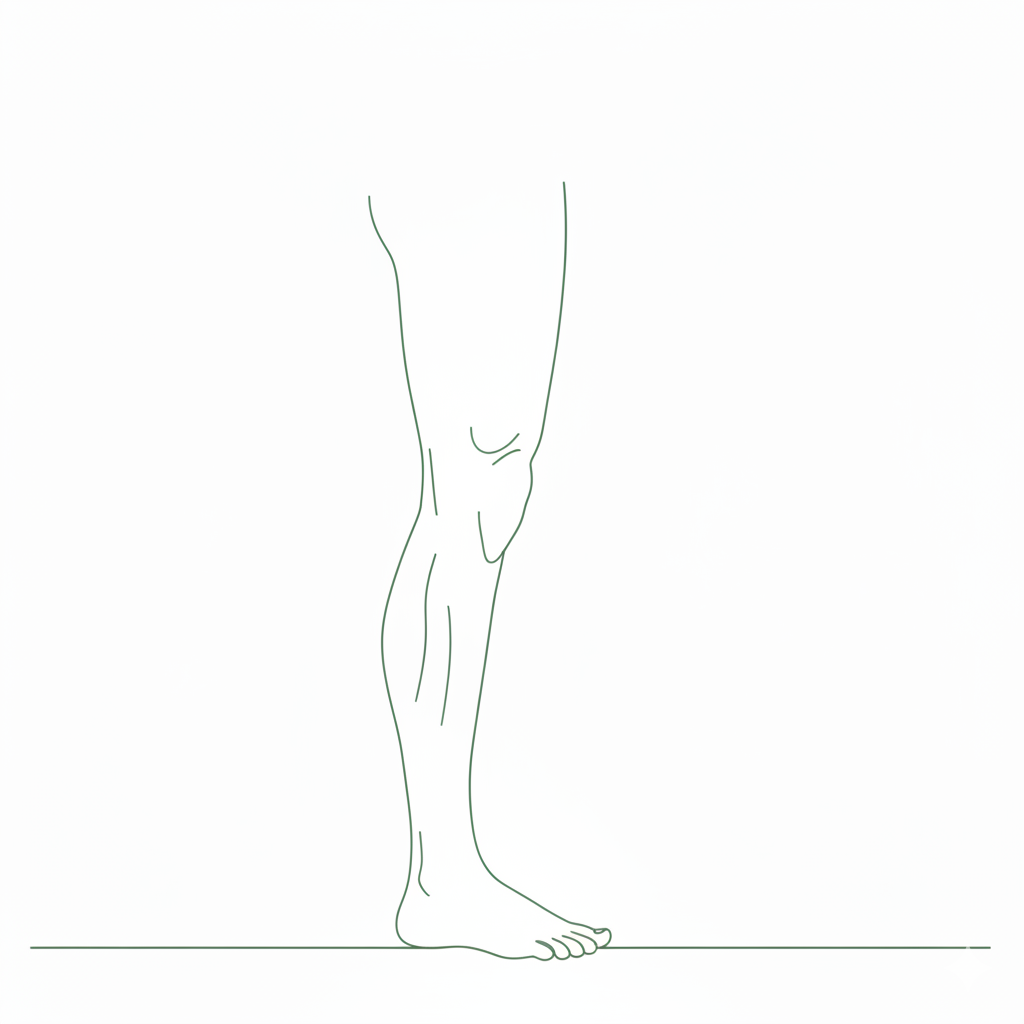
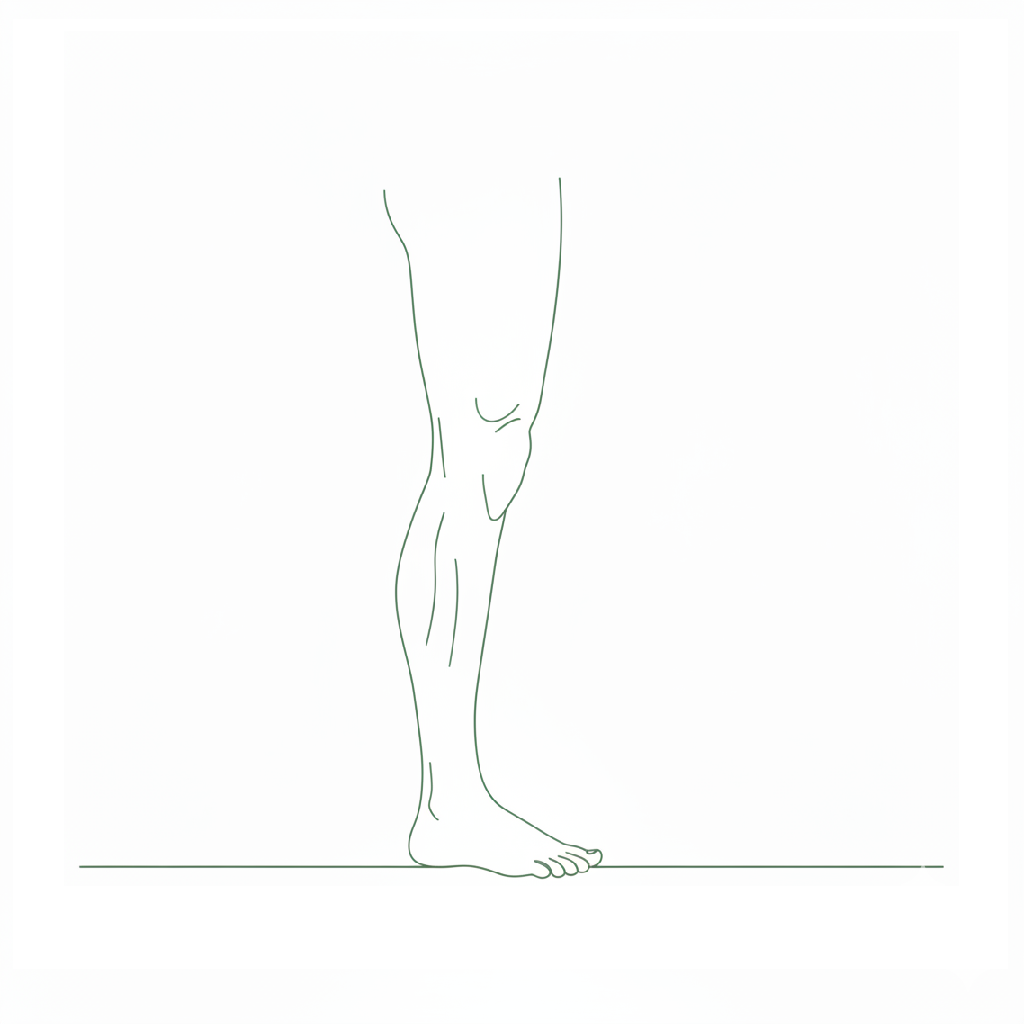
fix: fix url for biblical references

diff --git a/client/src/data.js b/client/src/data.js
@@ -87,7 +87,7 @@ export const ingredientsData = [
         sources: [
             { type: 'science', source: 'Cardiovascular benefits of garlic', url: 'https://www.ncbi.nlm.nih.gov/pmc/articles/PMC139960/' },
             { type: 'history', source: 'Used in Ancient Egypt for strength', url: 'https://www.ncbi.nlm.nih.gov/pmc/articles/PMC3249897/' },
-            { type: 'bible', source: 'Numbers 11:5' }
+            { type: 'bible', source: 'Numbers 11:5', url: 'https://www.bible.com/bible/114/NUM.11.5' }
         ]
     },
     {
@@ -159,7 +159,7 @@ export const ingredientsData = [
         commonUses: ['Burns', 'Skin Irritation', 'Wounds'],
         tags: ['science', 'bible', 'history'],
         sources: [
-            { type: 'bible', source: 'John 19:39' },
+            { type: 'bible', source: 'John 19:39', url: 'https://www.bible.com/bible/114/JHN.19.39' },
             { type: 'science', source: 'Aloe vera in dermatology', url: 'https://www.ncbi.nlm.nih.gov/pmc/articles/PMC2763764/' },
             { type: 'history', source: 'Known as "plant of immortality" in Egypt' }
         ]
@@ -233,7 +233,7 @@ export const ingredientsData = [
         commonUses: ['Sore Throat', 'Wounds', 'Nasal Congestion'],
         tags: ['bible', 'science', 'history'],
         sources: [
-            { type: 'bible', source: 'Matthew 5:13 (Metaphorical)', url: 'https://www.biblegateway.com/passage/?search=Matthew+5%3A13&version=KJV' },
+            { type: 'bible', source: 'Matthew 5:13 (Metaphorical)', url: 'https://www.bible.com/bible/114/MAT.5.13' },
             { type: 'science', source: 'Saline irrigation for rhinosinusitis', url: 'https://pubmed.ncbi.nlm.nih.gov/22769666/' },
             { type: 'history', source: 'Used for food preservation and health globally' }
         ]
@@ -306,7 +306,7 @@ export const ingredientsData = [
         commonUses: ['Diabetes', 'Infections', 'Digestion'],
         tags: ['science', 'bible', 'history'],
         sources: [
-            { type: 'bible', source: 'Exodus 30:23' },
+            { type: 'bible', source: 'Exodus 30:23', url: 'https://www.bible.com/bible/114/EXO.30.23' },
             { type: 'science', source: 'Cinnamon and blood glucose', url: 'https://www.ncbi.nlm.nih.gov/pmc/articles/PMC4466762/' },
             { type: 'history', source: 'Highly prized in ancient trade routes' }
         ]
@@ -355,7 +355,7 @@ export const ingredientsData = [
         commonUses: ['Puffy Eyes', 'Sunburn', 'Hydration'],
         tags: ['science', 'history', 'bible'],
         sources: [
-            { type: 'bible', source: 'Numbers 11:5' },
+            { type: 'bible', source: 'Numbers 11:5', url: 'https://www.bible.com/bible/114/NUM.11.5' },
             { type: 'science', source: 'Phytochemical analysis', url: 'https://pubmed.ncbi.nlm.nih.gov/23098877/' },
             { type: 'history', source: 'Cultivated in India for over 3000 years' }
         ]
@@ -381,7 +381,7 @@ export const ingredientsData = [
         tags: ['quran', 'bible', 'science', 'history'],
         sources: [
             { type: 'quran', source: 'Surah An-Nur 24:35', url: 'https://quran.com/24/35' },
-            { type: 'bible', source: 'Deuteronomy 8:8' },
+            { type: 'bible', source: 'Deuteronomy 8:8', url: 'https://www.bible.com/bible/114/DEU.8.8' },
             { type: 'science', source: 'Olive oil and skin health', url: 'https://pubmed.ncbi.nlm.nih.gov/19167997/' },
             { type: 'history', source: 'Symbol of peace and health since antiquity' }
         ]
@@ -550,7 +550,7 @@ export const ingredientsData = [
         commonUses: ['Cough', 'Colds', 'Infections'],
         tags: ['science', 'bible', 'quran', 'history'],
         sources: [
-            { type: 'bible', source: 'Numbers 11:5' },
+            { type: 'bible', source: 'Numbers 11:5', url: 'https://www.bible.com/bible/114/NUM.11.5' },
             { type: 'quran', source: 'Surah Al-Baqarah 2:61', url: 'https://quran.com/2/61' },
             { type: 'science', source: 'Anti-inflammatory effects of onion', url: 'https://pubmed.ncbi.nlm.nih.gov/19223126/' }
         ]

diff --git a/client/src/pages/BodyPartDetails.jsx b/client/src/pages/BodyPartDetails.jsx
@@ -50,8 +50,8 @@ const BodyPartDetails = () => {
             </Link>
 
             <div className="flex flex-col md:flex-row gap-8 items-start mb-12">
-                <div className="w-full md:w-1/3 aspect-square bg-white rounded-3xl p-8 border border-pastel-mint/30 shadow-sm flex items-center justify-center">
-                    <img src={bodyPart.image} alt={bodyPart.bodyPart[language]} className="w-full h-full object-contain" />
+                <div className="w-full md:w-1/3 aspect-square bg-white rounded-3xl border border-pastel-mint/30 shadow-sm flex items-center justify-center overflow-hidden">
+                    <img src={bodyPart.image} alt={bodyPart.bodyPart[language]} className="w-full h-full object-cover object-center scale-125" />
                 </div>
 
                 <div className="flex-1">

diff --git a/client/src/pages/TopIngredients.jsx b/client/src/pages/TopIngredients.jsx
@@ -96,7 +96,6 @@ const TopIngredients = () => {
                         className="bg-pastel-light/50 border border-pastel-mint/30 rounded-lg px-3 py-2 text-sm focus:outline-none focus:ring-2 focus:ring-pastel-green/50 flex-grow sm:flex-grow-0"
                     >
                         <option value="versatility">{t.versatility_desc}</option>
-                        <option value="name">{t.name_asc}</option>
                         <option value="safety">{t.safety_asc}</option>
                     </select>
                 </div>
